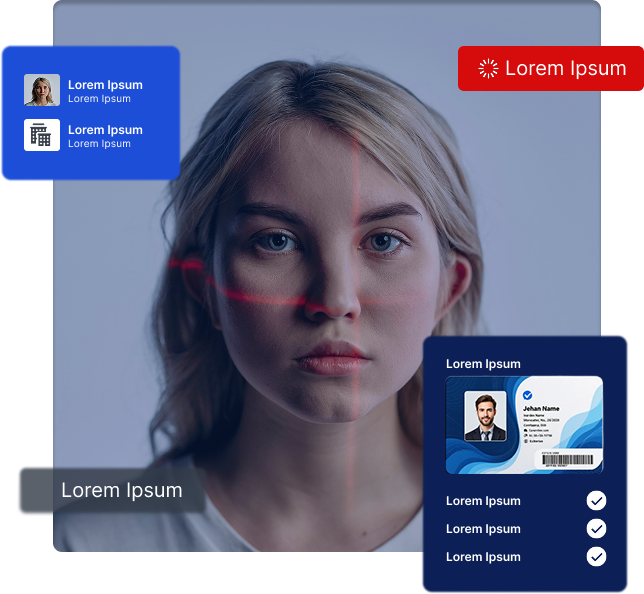
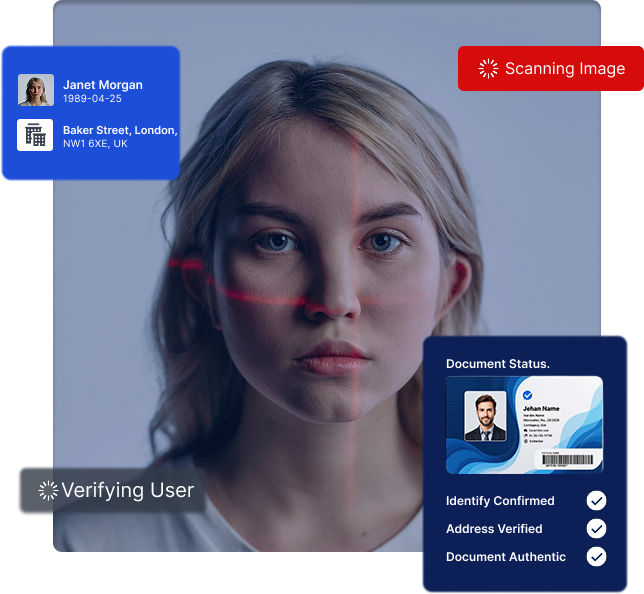
hero image changed

diff --git a/index.html b/index.html
@@ -813,7 +813,7 @@
         </div>
 
         <div class="col-lg-2 col-md-4 offset-lg-2 footer-links text-center text-md-start">
-          <h4>Nobis illum</h4>
+          <h4>Social Support</h4>
           <div class="social-links d-flex flex-column align-items-center align-items-md-start">
             <a href="#"><i class="bi bi-twitter-x"></i> Twitter</a>
             <a href="#"><i class="bi bi-facebook"></i> Facebook</a>
